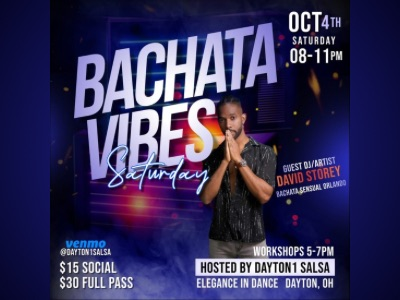
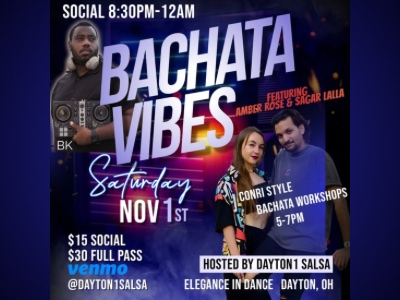
added new bachata vibes flyer, changed class location

diff --git a/src/pages/Events.jsx b/src/pages/Events.jsx
@@ -1,6 +1,6 @@
 import './Events.css'
 import { Link } from 'react-router-dom'
-import event3 from '../assets/Event-3.png'
+import event3 from '../assets/Event-3.jpg'
 import event2 from '../assets/Event-2.jpg'
 import event1 from '../assets/Event-1.jpg'
 
@@ -30,11 +30,11 @@ const eventData = [
         id: 1,
         imgUrl: event3,
         title: "Bachata Vibes",
-        date: "October 4, 2025",
-        time: "8 - 11 PM",
+        date: "November 1, 2025",
+        time: "8:30 PM - 12 AM",
         location: "Elegance in Dance, Dayton, OH",
-        info: "Hosted by DaytOn1 with Special Guest David Storey",
-        eventUrl: ''
+        info: "Hosted by DaytOn1 feat. Amber Rose & Sagar Lalla",
+        eventUrl: 'https://www.facebook.com/events/2163903027468897'
     },
 ]
 

diff --git a/src/pages/Classes.jsx b/src/pages/Classes.jsx
@@ -10,10 +10,10 @@ export default function Classes() {
         <div className="classes-page">
             <div className='classes-content'>
                 <div className='classes-location'>
-                    <h3>Location</h3>
-                    <p>Genuine Work</p>
-                    <p>15 Mc Donough Street</p>
-                    <p>Dayton, OH 45402</p>
+                    <h3>Interim Location</h3>
+                    <p>OnPar Entertainment</p>
+                    <p>4464 Indian Ripple Rd</p>
+                    <p>Beavercreek, OH 45440</p>
                 </div>
                 <div className='classes-schedules'>
                     <div className='classes-schedule-section'>

diff --git a/src/pages/About.jsx b/src/pages/About.jsx
@@ -4,7 +4,7 @@ import React from 'react'
 import ReactPlayer from 'react-player'
 import videoplaceholder from '../assets/dayton1-group.jpg'
 // import video from '../assets/heather-dave-dance.mov'
-import event1 from '../assets/Event-3.png'
+import event1 from '../assets/Event-3.jpg'
 import event2 from '../assets/Event-1.jpg'
 import salsa from '../assets/heather-dave.jpg'
 import bachata from '../assets/class-pic.jpg'

diff --git a/src/pages/Classes.css b/src/pages/Classes.css
@@ -59,7 +59,6 @@
 .days {
     display: flex;
     flex-direction: column;
-    flex-wrap: wrap;
     justify-content: center;
     padding: 10px 20px;
     line-height: 8pt;
